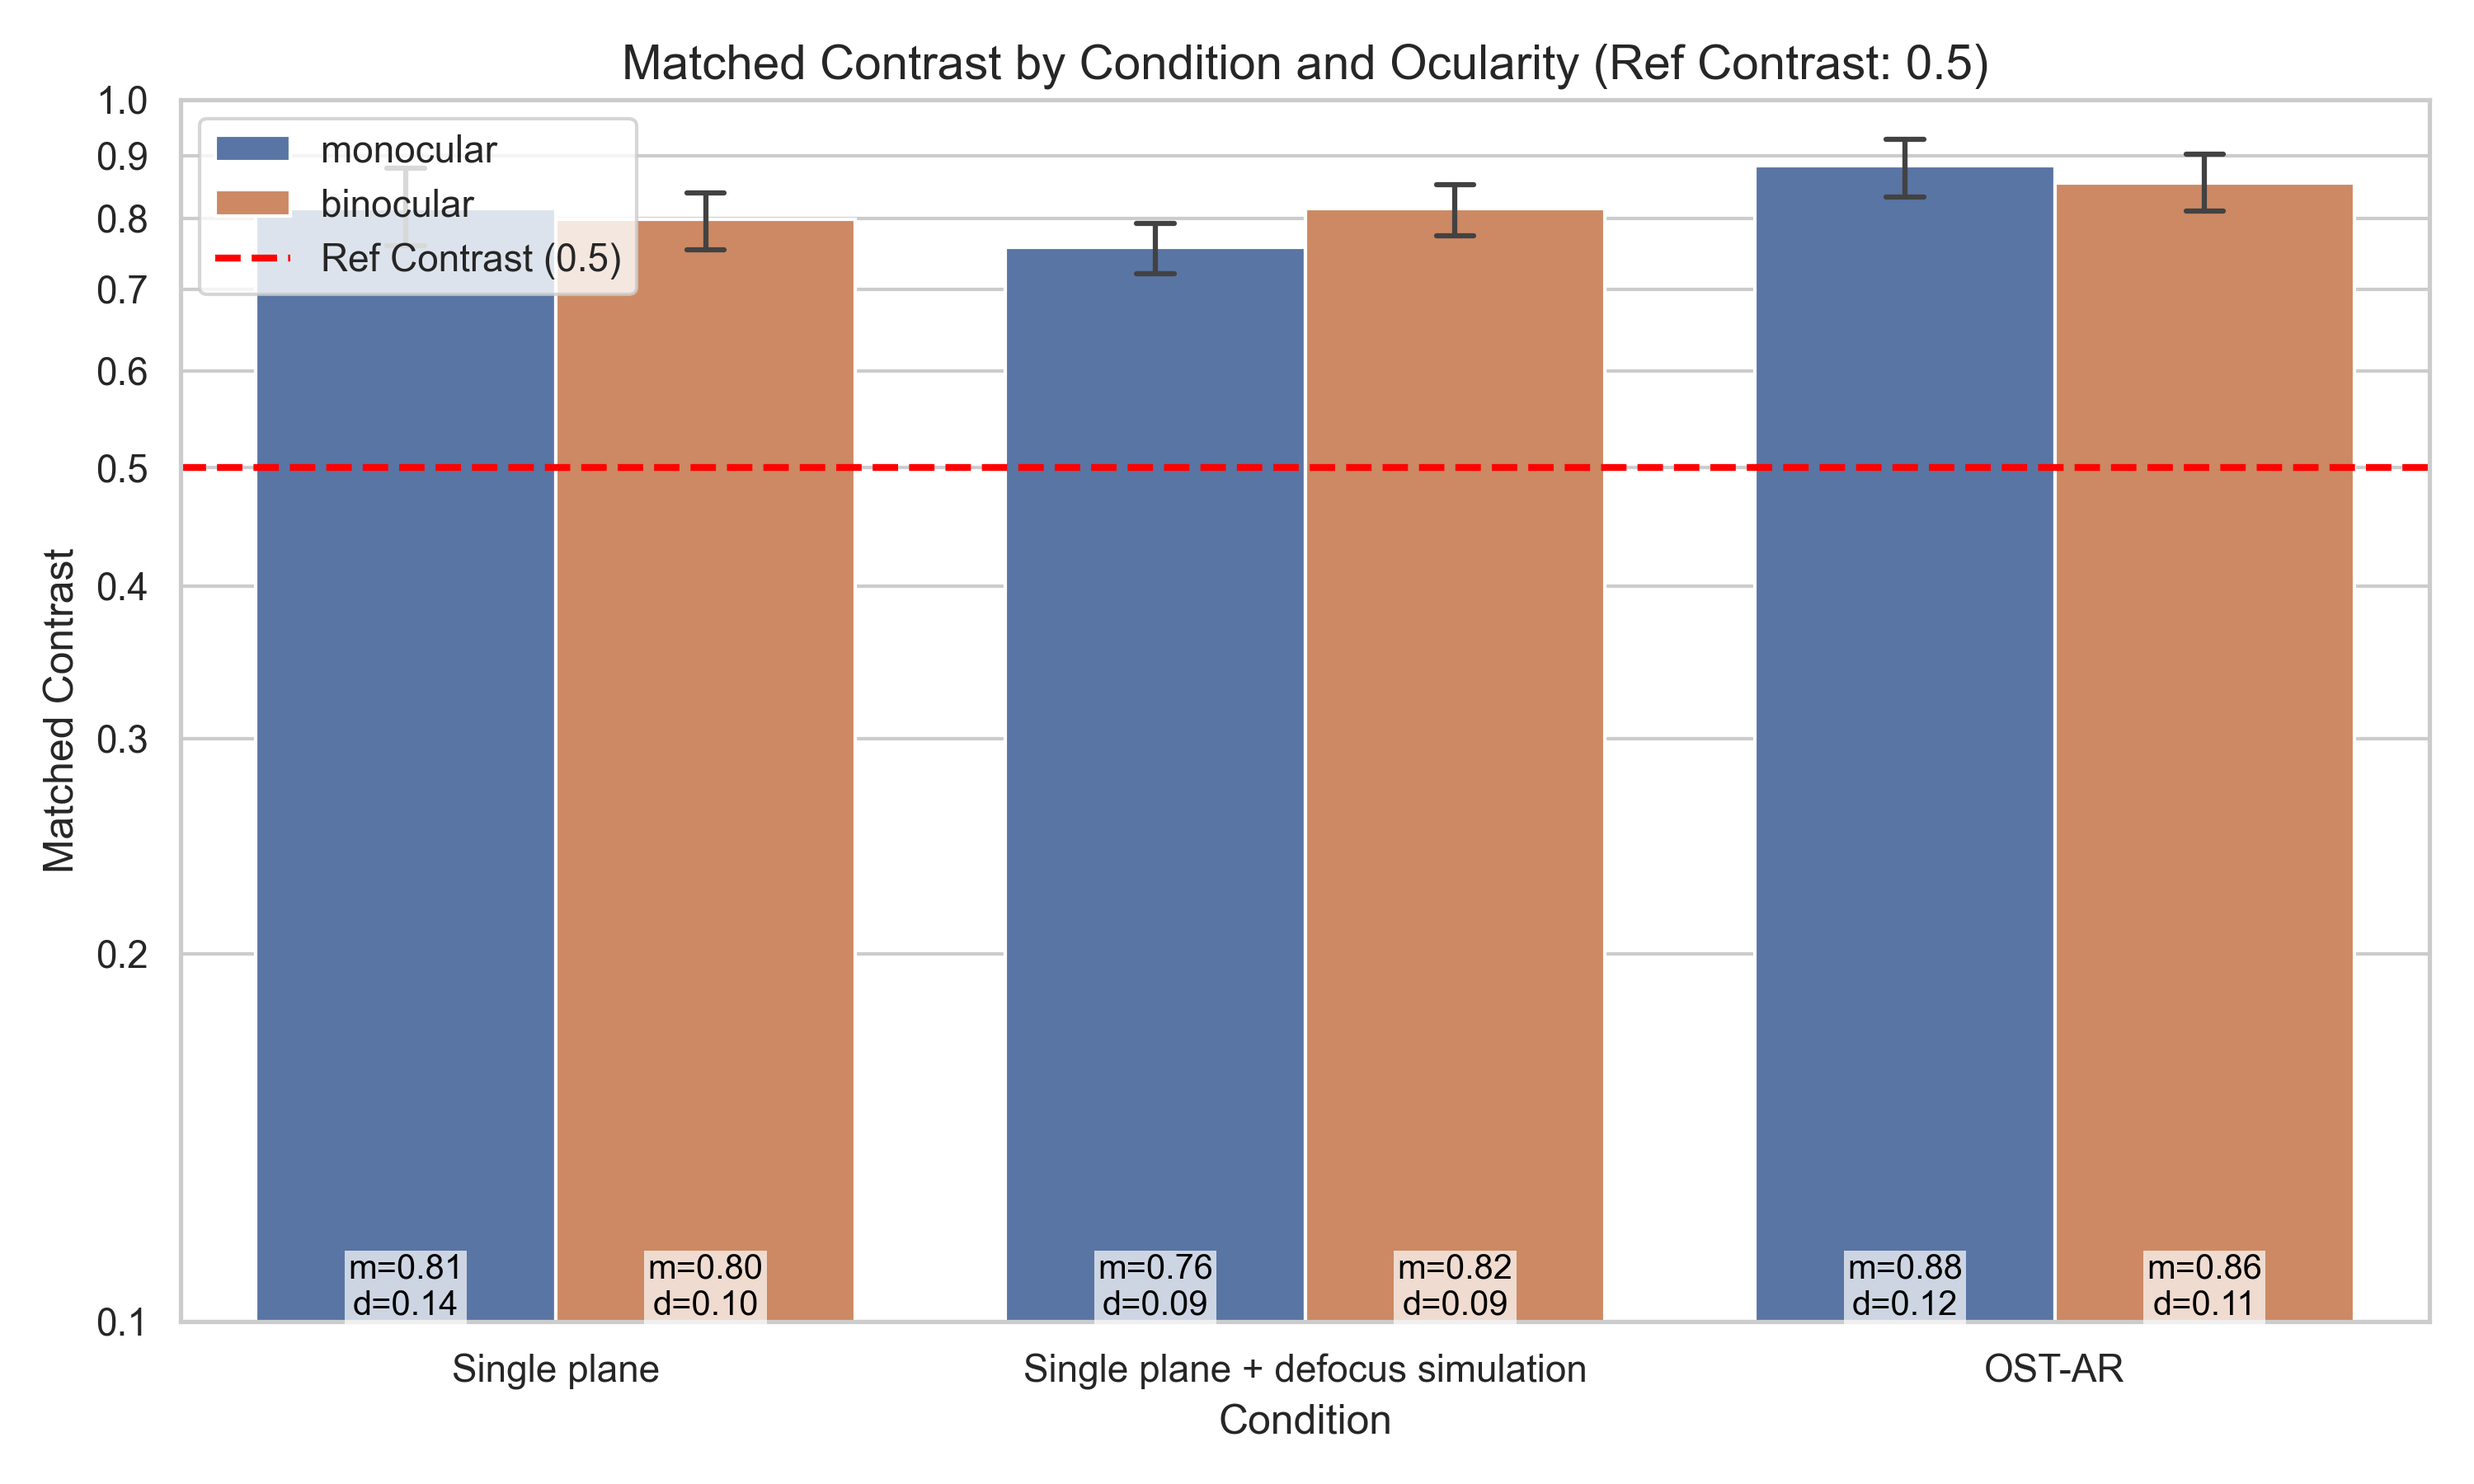
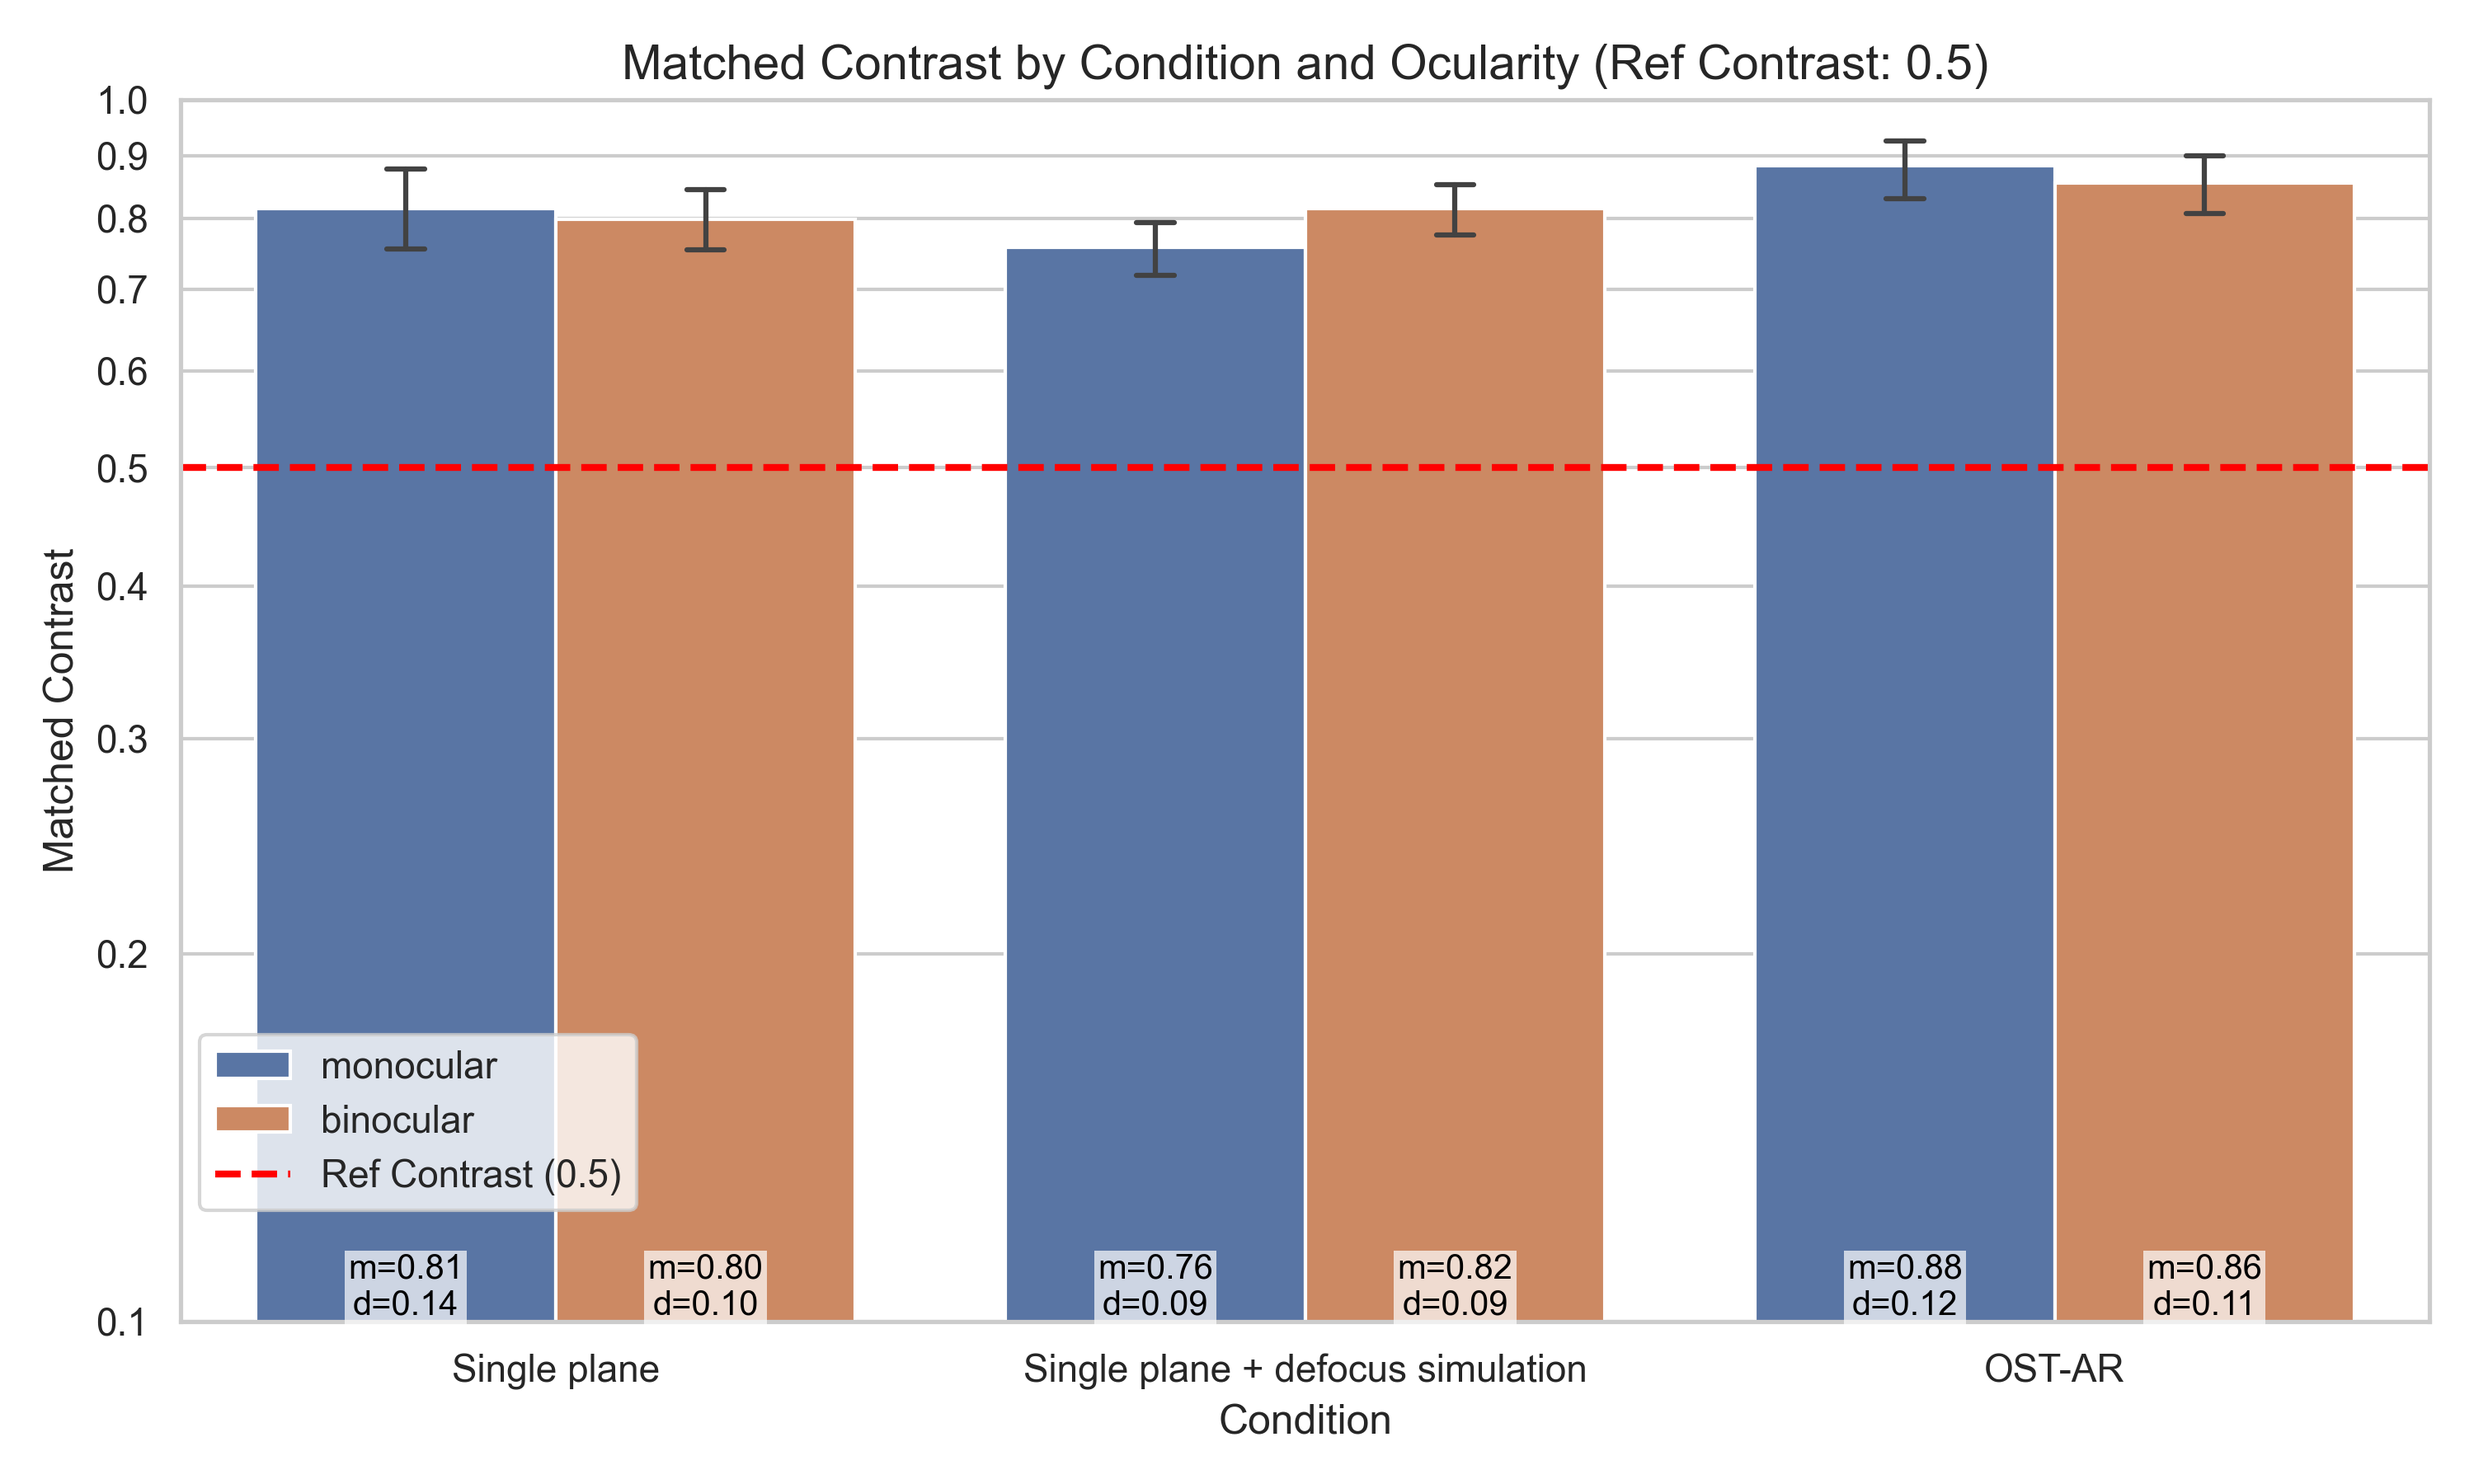
fix: ラベルの位置を変更

Changed region(s): [[0.062, 0.6844, 0.279, 0.84], [0.062, 0.0933, 0.279, 0.2178]]

diff --git a/src/experiment/pre-analyze/pre-analyze-matching.py b/src/experiment/pre-analyze/pre-analyze-matching.py
@@ -144,7 +144,7 @@ for ref_c in unique_ref_contrasts:
     
     # 凡例の設定
     handles, labels = ax.get_legend_handles_labels()
-    ax.legend(handles=handles, labels=labels, bbox_to_anchor=(0, 1), loc='upper left', borderaxespad=0.5)
+    ax.legend(handles=handles, labels=labels, bbox_to_anchor=(0, 0.25), loc='upper left', borderaxespad=0.5)
     
     plt.tight_layout()
     
